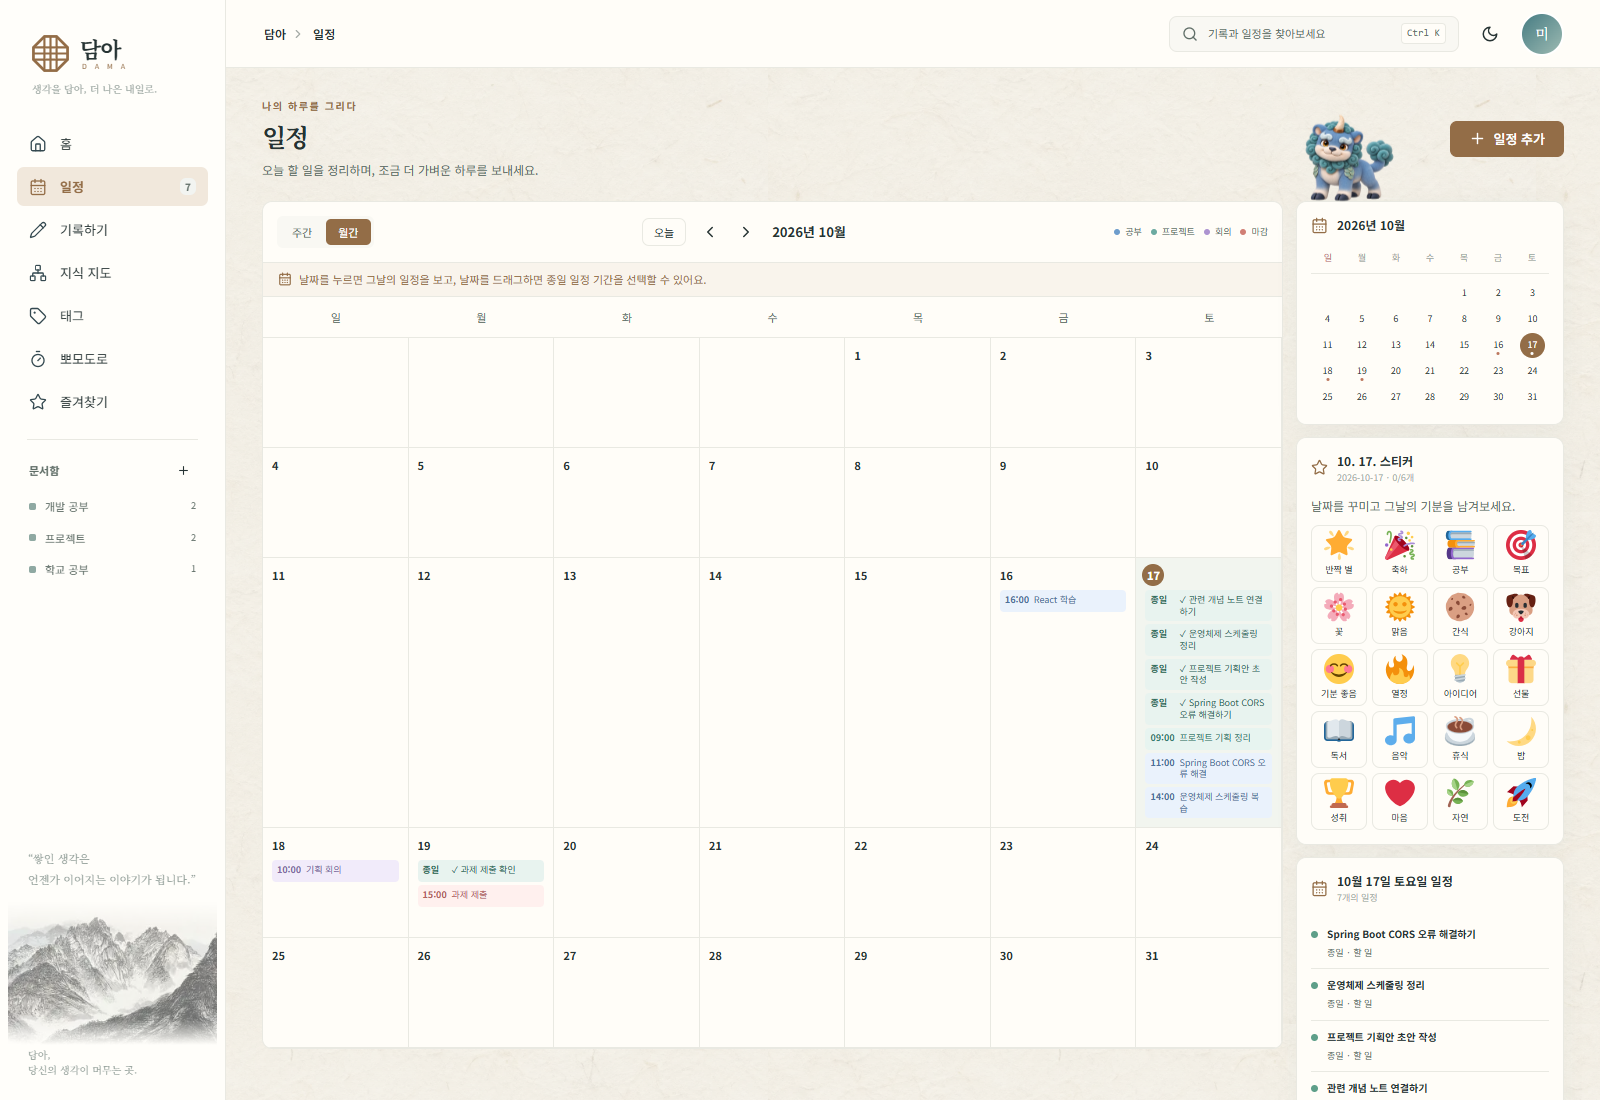
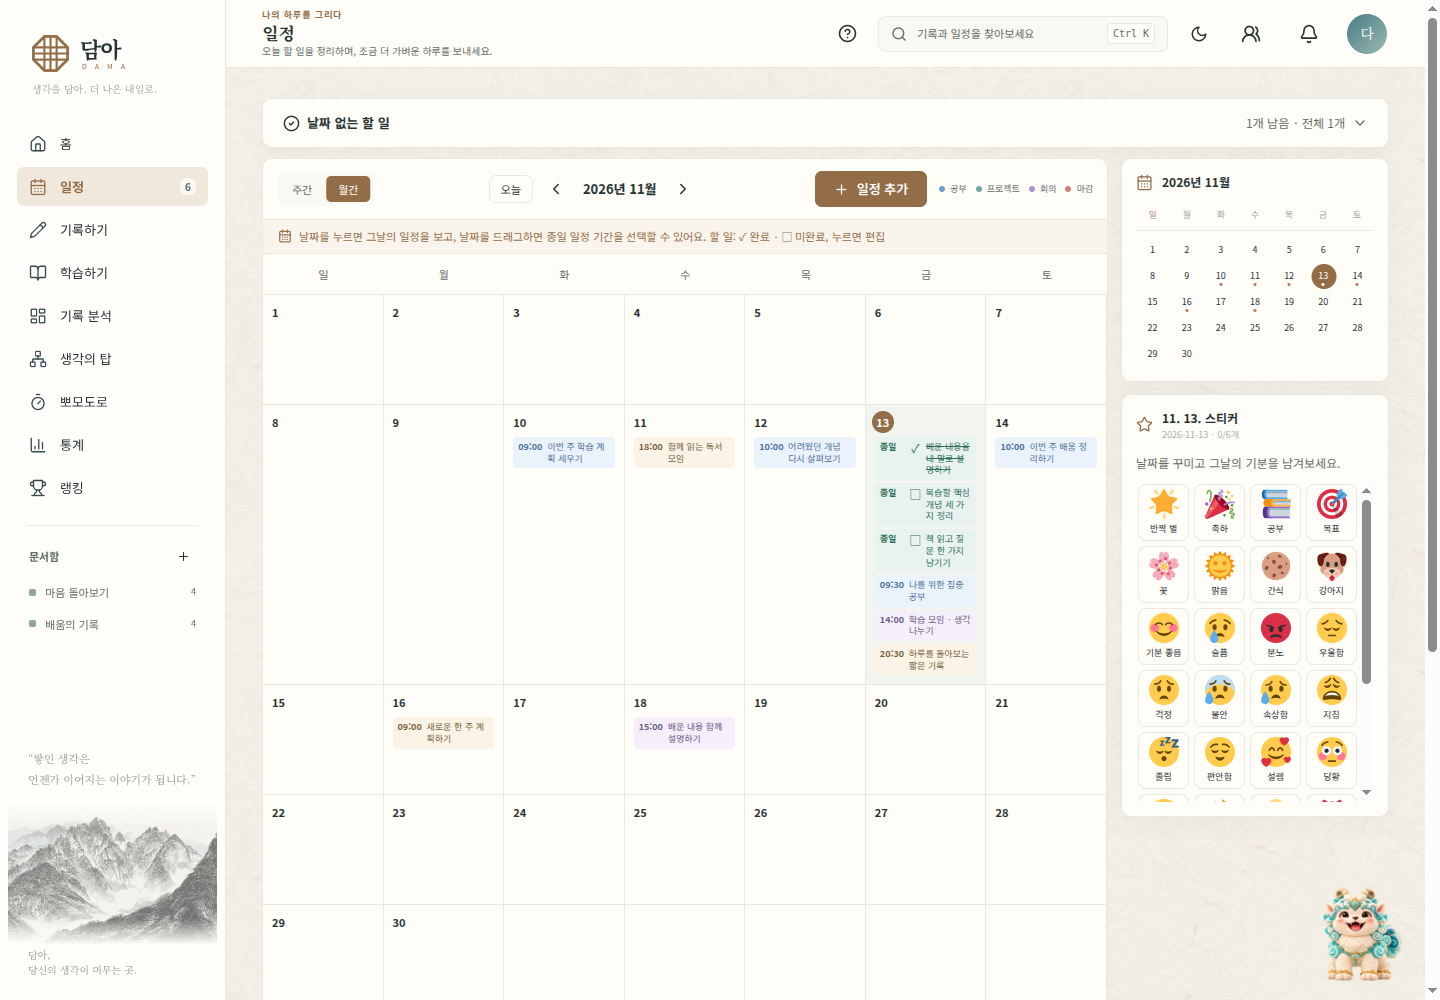
docs: refresh v4.40.1 screenshots [tests:none]

diff --git a/docs/SCREENS.md b/docs/SCREENS.md
@@ -1,0 +1,93 @@
+# 화면으로 보는 담아
+
+**촬영 버전: v4.40.1 · 촬영일: 2026-11-13**
+
+같은 버전의 시연 환경에서 공개용 가상 기록·일정·자료를 넣고 실제 웹 화면을 촬영했습니다. 학습 문제는 직접 작성한 짧은 예시 자료로 실제 AI를 실행해 만들었습니다. 풀이 숫자는 예시 답안을 넣은 시연 결과이며 학습 향상률이나 실제 시험 성적이 아닙니다. 모바일 사진은 Chrome 터치 에뮬레이션입니다.
+
+[담아 열기](https://dama-kjinhub-2026.duckdns.org/) · [사용 안내](USAGE.md) · [과거 v0.2.0 화면](SCREENSHOT_ARCHIVE.md)
+
+- [홈과 일정](#홈과-일정)
+- [기록과 질문](#기록과-질문)
+- [자료로 공부하기](#자료로-공부하기)
+- [집중과 생각의 탑](#집중과-생각의-탑)
+- [모바일](#모바일)
+
+## 홈과 일정
+
+### 오늘의 계획을 한곳에서
+
+![오늘의 일정·할 일·최근 기록과 날짜 없는 할 일을 담은 한지 테마 홈](../assets/screenshots/home.png)
+
+오늘 할 일과 일정을 확인하고 기록을 이어 씁니다. 아래에는 날짜 없는 할 일도 별도 목록으로 확인할 수 있습니다.
+
+### 월간 일정
+
+![공개용 예시 일정과 할 일을 월별로 확인하는 달력](../assets/screenshots/calendar-month.png)
+
+월 전체 계획에서 날짜를 고르고 그날의 일정·할 일을 살펴봅니다.
+
+### 주간 일정
+
+![요일과 시간대별로 배치된 공부·모임 예시 일정을 보는 주간 화면](../assets/screenshots/calendar-week.png)
+
+시간이 정해진 일정을 주간 시간표로 확인합니다. 날짜가 없는 할 일은 별도 목록에서 관리합니다.
+
+## 기록과 질문
+
+### 자신의 말로 남기는 기록
+
+![가상 학습·성찰 기록을 읽고 정리하는 기록하기 화면](../assets/screenshots/notes.png)
+
+학습 노트와 일상 기록을 문서함에 정리하고, 저장한 기록을 다시 열어 읽거나 수정합니다.
+
+### 질문을 읽고 생각을 기록하기
+
+![일반 사색 질문에 예시 답변을 작성 중인 카드](../assets/screenshots/record-reflection.png)
+
+사진은 일반 사색 질문에 직접 예시 답변을 작성한 장면입니다. 답변은 자신의 기록으로 남길 수 있습니다. 본인 경험 기록을 참고하는 AI 역질문은 AI 이용 설정과 연결 상태에 따라 제공하며, 이 사진의 일반 질문과 구분합니다.
+
+## 자료로 공부하기
+
+### 범위와 문제 유형 정하기
+
+![학습 이름·범위·문제 유형·문제 수를 정하는 학습 설정 화면](../assets/screenshots/study-setup.png)
+
+기존 기록이나 자료를 선택한 뒤 범위·수준·유형을 정합니다. 사진의 자료는 공개 시연을 위해 직접 작성한 ‘나의 학습 루틴’입니다.
+
+### 한 문제와 원문 근거 확인
+
+![공개 예시 자료로 실제 AI가 만든 객관식 문제와 원문 근거](../assets/screenshots/study-question.png)
+
+필요한 힌트와 근거를 펼쳐 자료와 문제를 함께 확인합니다. 정답과 해설은 답안을 제출한 뒤 표시합니다.
+
+### 결과에서 다시 볼 내용 찾기
+
+![예시 답안의 풀이 결과와 다시 볼 개념을 확인하는 학습 결과 화면](../assets/screenshots/study-results.png)
+
+예시 답안 5개 중 4개는 정답, 1개는 오답으로 입력해 다시 살필 개념을 보여줍니다. 이 수치는 기능 시연을 위한 결과입니다.
+
+### 확인한 복습 항목만 일정에 등록
+
+![복습 항목의 날짜·시간을 확인하고 선택한 일정을 등록하는 화면](../assets/screenshots/study-schedule.png)
+
+등록할 항목과 날짜·시간을 직접 확인합니다. 저장한 일정의 ‘공부 시작’에서 연결된 학습으로 돌아올 수 있습니다.
+
+## 집중과 생각의 탑
+
+### 야간 테마의 집중 타이머
+
+![야간 테마에서 공부와 휴식 시간을 확인하는 뽀모도로](../assets/screenshots/pomodoro-night.png)
+
+집중·휴식 시간을 정하고 타이머를 시작합니다. 타이머 완료와 문제 정답 여부는 별개로 기록합니다.
+
+### 기록이 쌓이는 생각의 탑
+
+![공개용 예시 기록이 돌블록으로 쌓인 생각의 탑](../assets/screenshots/thought-tower.png)
+
+돌을 선택해 기록 원문을 확인하거나 편집 화면으로 이동합니다. 탑 높이와 예시 기록 수는 시연 데이터입니다.
+
+## 모바일
+
+<img src="../assets/screenshots/mobile-home.png" alt="390×844 Chrome 터치 에뮬레이션으로 촬영한 담아 모바일 홈" width="390" />
+
+좁은 화면에서는 오늘의 계획과 하단 메뉴를 중심으로 이동합니다. ‘더보기’에서 학습하기와 다른 메뉴를 열 수 있습니다.

diff --git a/README.md b/README.md
@@ -20,15 +20,15 @@
 
 담아에는 한국 전설 속 동물인 **해태**가 함께합니다. 듀오링고처럼 매일의 작은 활동이 다음 날 다시 찾아올 이유가 되는 경험을 떠올리며, 화면을 돌아다니는 해태에게 사용자가 하루 동안 해낸 일을 함께 담고 싶었습니다.
 
-오늘 등록한 할 일을 완료하면 해태가 하루에 한 번 성장합니다. 해태의 레벨은 **내가 세운 계획을 하루에 하나라도 실천한 날이 얼마나 쌓였는지** 보여주는 지표가 됩니다. 통계에서는 출석과 할 일 등록 활동을 잔디처럼 차곡차곡 돌아볼 수 있습니다.
+담아에 접속한 날마다 해태가 하루에 한 번 성장합니다. 해태의 레벨은 **내 하루를 돌아보기 위해 담아를 찾아온 날이 얼마나 쌓였는지** 보여주는 지표가 됩니다. 통계에서는 출석과 할 일 등록 활동을 잔디처럼 차곡차곡 돌아볼 수 있습니다.
 
-오늘 해낸 일 하나가 기록으로 남고, 그 기록이 쌓여 해태도 함께 자라는 경험. 담아가 여러분에게도 **내 하루를 담아 두고, 내일 다시 찾아오고 싶은 공간**이 되었으면 합니다.
+오늘 해낸 일은 기록으로 남고, 담아에 다시 찾아오는 날이 쌓이며 해태도 함께 자라는 경험. 담아가 여러분에게도 **내 하루를 담아 두고, 내일 다시 찾아오고 싶은 공간**이 되었으면 합니다.
 
 ---
 
 [담아 열기](https://dama-kjinhub-2026.duckdns.org) · [최신 업데이트·전체 변경 기록](CHANGELOG.md) · [사용 안내](docs/USAGE.md) · [버전별 릴리스](https://github.com/kjinhub/DAMA_INFO/releases) · [오류 제보·기능 제안](https://github.com/kjinhub/DAMA_INFO/issues)
 
-아래 홈 이미지를 포함한 화면 예시는 **v0.2.0의 과거 화면**입니다. 최신 기능과 사용 방법은 아래 설명과 [사용 안내](docs/USAGE.md)를 참고하세요.
+아래는 **v4.40.1 웹의 실제 화면**입니다. **2026-11-13**에 공개용 가상 기록·일정으로 촬영했습니다. [전체 화면 모음](docs/SCREENS.md)에서 학습·성찰·모바일 흐름을, [사용 안내](docs/USAGE.md)에서 조작 방법을 볼 수 있습니다.
 
 ![한지 배경의 담아 홈: 달력, 오늘의 일정, 할 일과 최근 기록](assets/screenshots/home.png)
 
@@ -58,6 +58,24 @@
 
 
 관리자는 같은 사이트의 `/admin`에서 회원 관리와 공지·비공개 리뷰 접수·작업 기록을 관리하고, 회원에게 오라나 펫을 선물할 수 있습니다. 서비스 상태에서는 최근 성공한 백업·배포 시각을 확인할 수 있습니다. 일반 회원과 관리자 권한은 서버에서 구분하며, 관리자 화면에 개인 기록·일정·첨부 내용을 열람하는 기능은 제공하지 않습니다.
+
+## 화면으로 살펴보기
+
+기록을 남기고 질문에 답하며, 필요한 순간에 자료를 문제로 바꾸어 공부를 이어갑니다. 사진 속 자료·답안·수치는 기능을 설명하기 위한 공개용 예시입니다.
+
+### 자료에서 문제와 복습으로
+
+![공개용 예시 자료로 만든 객관식 문제와 원문 근거를 나란히 확인하는 학습하기 화면](assets/screenshots/study-question.png)
+
+범위·유형을 확인해 문제를 만들고, 제출 후 해설을 살펴봅니다. 다시 볼 내용은 날짜와 시간을 확인한 뒤 복습 일정에 등록합니다. [학습 준비부터 복습까지 보기](docs/SCREENS.md#자료로-공부하기)
+
+### 질문에서 자신의 기록으로
+
+![오늘의 사색 질문을 읽고 자신의 답변을 기록하는 화면](assets/screenshots/record-reflection.png)
+
+무엇부터 적을지 막막할 때 질문을 읽고 생각을 자신의 말로 남깁니다. 사진은 일반 사색 질문을 사용한 예시이며, 기록 기반 AI 역질문과 구분합니다. [기록과 질문 화면 보기](docs/SCREENS.md#기록과-질문)
+
+[홈·달력·집중·생각의 탑·모바일 화면도 보기](docs/SCREENS.md) · [v0.2.0 과거 화면](docs/SCREENSHOT_ARCHIVE.md)
 
 ## 최신 업데이트: v4.40.1 · 2026-11-12
 

diff --git a/docs/SCREENSHOT_ARCHIVE.md b/docs/SCREENSHOT_ARCHIVE.md
@@ -1,0 +1,28 @@
+# v0.2.0 과거 화면
+
+아래 이미지는 v0.2.0 당시 공개한 화면을 원본 그대로 보존한 자료입니다. 현재 화면과 메뉴·동작이 다릅니다. [v4.40.1 현재 화면](SCREENS.md) · [현재 사용 안내](USAGE.md)
+
+## 홈
+
+![홈의 v0.2.0 과거 화면](../assets/screenshots/archive/v0.2.0/home.png)
+
+## 월간 일정
+
+![월간 일정의 v0.2.0 과거 화면](../assets/screenshots/archive/v0.2.0/calendar-month.png)
+
+## 주간 일정
+
+![주간 일정의 v0.2.0 과거 화면](../assets/screenshots/archive/v0.2.0/calendar-week.png)
+
+## 기록
+
+![기록의 v0.2.0 과거 화면](../assets/screenshots/archive/v0.2.0/notes.png)
+
+## 야간 집중 타이머
+
+![야간 집중 타이머의 v0.2.0 과거 화면](../assets/screenshots/archive/v0.2.0/pomodoro-night.png)
+
+## 과거 지식 지도
+
+![과거 지식 지도의 v0.2.0 과거 화면](../assets/screenshots/archive/v0.2.0/knowledge-map.png)
+
